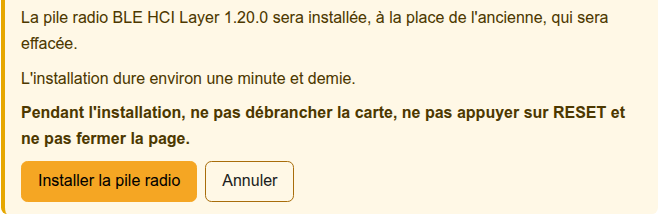
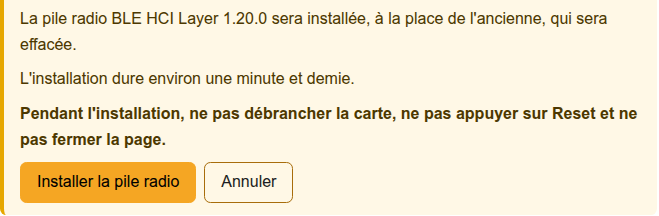
docs(software): captures de la pile radio avec le bouton Reset
Les captures de la proposition d'installation et de l'attente pendant l'installation montrent maintenant « appuyer sur Reset », comme les messages depuis #324. Elles ont été refaites sur la V1c, pile BLE HCI Layer 1.20.0 réinstallée en mode forcé, avec le même cadrage. Leurs textes alternatifs suivent.

Refs #320

diff --git a/docs/software/pile-radio.md b/docs/software/pile-radio.md
@@ -50,7 +50,7 @@ Sous chaque [exemple BLE Arduino](/docs/software/arduino/exemples/ble), le bouto
 
 3. Si la pile manque, est plus ancienne ou est d'un autre type, une seconde question indique la pile trouvée et celle qui sera installée, en effaçant l'ancienne, s'il y en a une. Cliquer sur **Installer la pile radio** pour lancer l'installation, ou sur **Annuler**. **Annuler** n'installe rien et ne change pas la pile radio, mais le programme de lecture occupe encore la carte : téléverser l'exemple pour l'essayer.
 
-   ![Seconde question : la pile BLE HCI Layer 1.20.0 sera installée à la place de l'ancienne, qui sera effacée ; l'installation dure environ une minute et demie ; consigne de ne pas débrancher la carte, de ne pas appuyer sur RESET et de ne pas fermer la page ; boutons « Installer la pile radio » et « Annuler »](/img/software/pile-radio-wiki-04-proposition.png)
+   ![Seconde question : la pile BLE HCI Layer 1.20.0 sera installée à la place de l'ancienne, qui sera effacée ; l'installation dure environ une minute et demie ; consigne de ne pas débrancher la carte, de ne pas appuyer sur Reset et de ne pas fermer la page ; boutons « Installer la pile radio » et « Annuler »](/img/software/pile-radio-wiki-04-proposition.png)
 
    L'installation dure une minute et demie (94 secondes sur une V1c). Le bouton télécharge d'abord la nouvelle pile depuis le wiki et vérifie son empreinte : si elle ne correspond pas, rien n'est effacé. Il efface ensuite l'ancienne pile, écrit la nouvelle sur la carte (une barre de progression suit l'écriture), puis le FUS l'installe. Pendant tout ce temps, ne pas débrancher la carte, ne pas appuyer sur Reset et ne pas fermer la page.
 
@@ -58,7 +58,7 @@ Sous chaque [exemple BLE Arduino](/docs/software/arduino/exemples/ble), le bouto
 
    Pendant que le FUS installe la pile, un décompte d'une minute indique le temps restant.
 
-   ![Attente de la fin de l'installation : « Le FUS installe la pile radio. Pendant l'installation, ne pas débrancher la carte, ne pas appuyer sur RESET et ne pas fermer la page. », puis « Temps restant : 60 s »](/img/software/pile-radio-wiki-06-attente.png)
+   ![Attente de la fin de l'installation : « Le FUS installe la pile radio. Pendant l'installation, ne pas débrancher la carte, ne pas appuyer sur Reset et ne pas fermer la page. », puis « Temps restant : 60 s »](/img/software/pile-radio-wiki-06-attente.png)
 
 4. Une fois la pile relue, le bouton affiche qu'elle est installée. Cliquer ensuite sur **Téléverser** sous l'exemple : le programme de lecture occupe encore la carte, et l'exemple le remplace.
 
